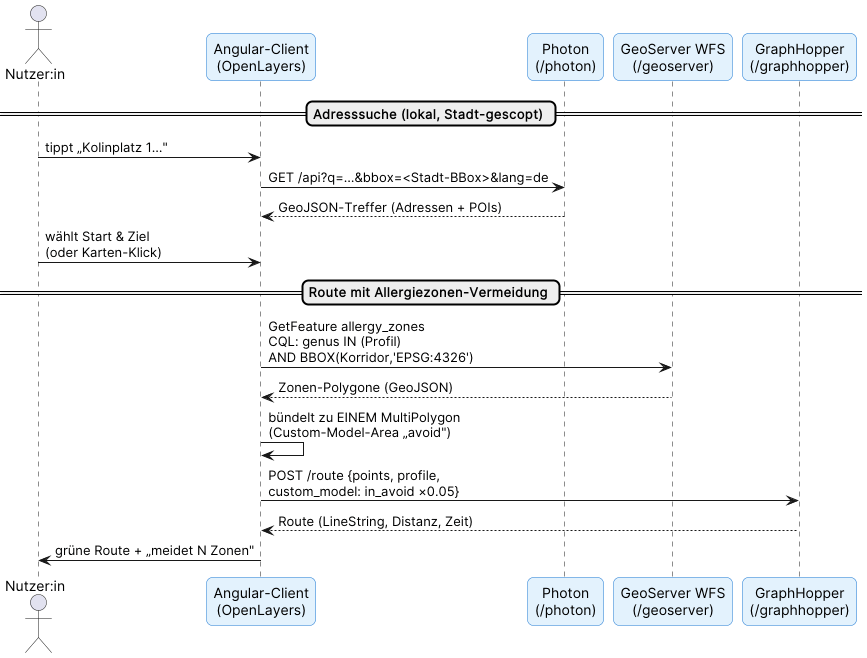
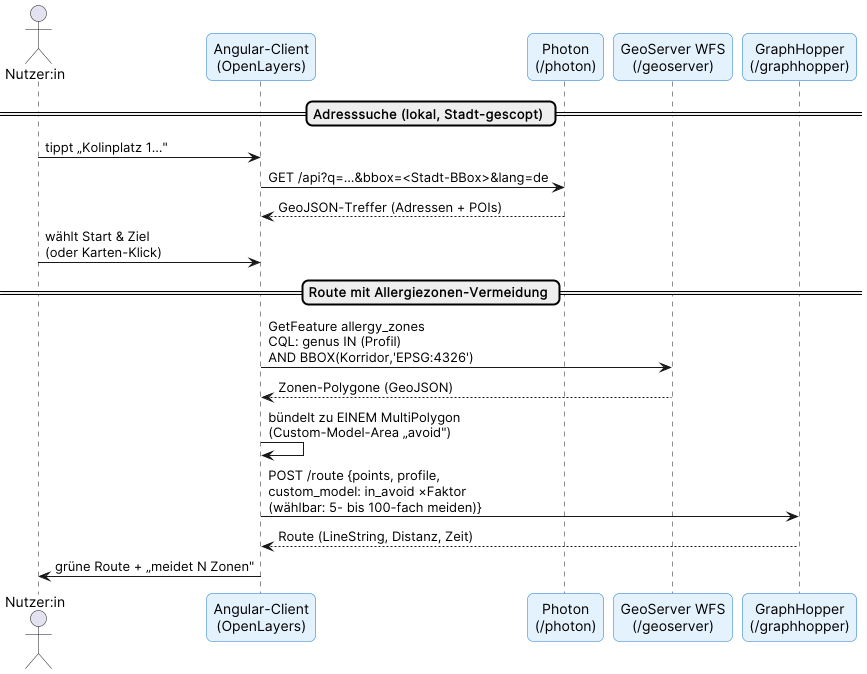
Improved strategies for navigating allergy zones during route planning. + Documentation update

diff --git a/webgis/client/src/app/routing.service.ts b/webgis/client/src/app/routing.service.ts
@@ -38,14 +38,20 @@ export class RoutingService {
   private static readonly CORRIDOR_BUFFER_DEG = 0.012;
   /** Obergrenze der Zonen je Anfrage (deckelt dichte Innenstädte). */
   private static readonly MAX_ZONES = 300;
-  /** Prioritätsfaktor für Kanten in einer Zone (klein = stark meiden; nicht 0, damit stets eine Route existiert). */
-  private static readonly ZONE_PENALTY = '0.05';
 
+  /**
+   * @param avoidFactor Prioritätsfaktor für Kanten in Allergiezonen: jeder Meter
+   *        in einer Zone „kostet" das (1/avoidFactor)-fache eines normalen Meters.
+   *        0,05 = Umwege bis zum ~20-Fachen des Zonenabschnitts werden bevorzugt.
+   *        Bewusst nie 0 (hart gesperrt) — so existiert immer eine Route, auch
+   *        wenn der Start mitten in einer Zone liegt.
+   */
   async route(
     profile: RouteProfile,
     start: LonLat,
     end: LonLat,
     avoidGenera: ReadonlySet<string>,
+    avoidFactor: number,
   ): Promise<RouteResult> {
     const zones = avoidGenera.size ? await this.corridorZones(start, end, avoidGenera) : [];
     const body: Record<string, unknown> = {
@@ -57,7 +63,7 @@ export class RoutingService {
       points_encoded: false,
       'ch.disable': true,
     };
-    if (zones.length) body['custom_model'] = this.avoidModel(zones);
+    if (zones.length) body['custom_model'] = this.avoidModel(zones, avoidFactor);
 
     const resp = await firstValueFrom(this.http.post<GhResponse>(RoutingService.GH_URL, body));
     const path = resp.paths?.[0];
@@ -109,14 +115,14 @@ export class RoutingService {
    * eine Bedingung `in_avoid`) statt N Einzel-Areas — deutlich schlankerer Request.
    * Die Zonen sind Polygone (PostGIS-Schema); ein evtl. MultiPolygon wird flach übernommen.
    */
-  private avoidModel(zoneGeoms: GeoJsonGeometry[]): object {
+  private avoidModel(zoneGeoms: GeoJsonGeometry[], avoidFactor: number): object {
     const polygons: unknown[] = [];
     for (const g of zoneGeoms) {
       if (g.type === 'Polygon') polygons.push(g.coordinates);
       else if (g.type === 'MultiPolygon') polygons.push(...(g.coordinates as unknown[]));
     }
     return {
-      priority: [{ if: 'in_avoid', multiply_by: RoutingService.ZONE_PENALTY }],
+      priority: [{ if: 'in_avoid', multiply_by: String(avoidFactor) }],
       areas: {
         type: 'FeatureCollection',
         features: [

diff --git a/webgis/client/src/app/app.ts b/webgis/client/src/app/app.ts
@@ -57,6 +57,8 @@ export class App implements AfterViewInit {
   // Routing (Phase 4) — Start/Ziel per Karten-Klick, Vermeidung nutzt selectedGenera.
   readonly routingActive = signal(false);
   readonly routeProfile = signal<RouteProfile>('foot');
+  /** Zonen-Meidefaktor: 0,05 = „lieber bis zu 20-facher Umweg als eine Zone queren". */
+  readonly routeAvoidFactor = signal(0.05);
   readonly routeStart = signal<LonLat | null>(null);
   readonly routeEnd = signal<LonLat | null>(null);
   readonly routeInfo = signal<RouteResult | null>(null);
@@ -296,6 +298,14 @@ export class App implements AfterViewInit {
     if (this.routeStart() && this.routeEnd()) void this.computeRoute();
   }
 
+  /** Meidefaktor aus dem Dropdown übernehmen und ggf. sofort neu rechnen. */
+  setAvoidFactor(value: string): void {
+    const factor = Number(value);
+    if (!factor || factor === this.routeAvoidFactor()) return;
+    this.routeAvoidFactor.set(factor);
+    if (this.routeStart() && this.routeEnd()) void this.computeRoute();
+  }
+
   clearRoutingUi(): void {
     this.resetRouting();
     this.mapService.clearRouting();
@@ -331,6 +341,7 @@ export class App implements AfterViewInit {
         start,
         end,
         this.selectedGenera(),
+        this.routeAvoidFactor(),
       );
       this.routeInfo.set(result);
       this.mapService.drawRoute(result.coords);

diff --git a/webgis/client/src/app/app.html b/webgis/client/src/app/app.html
@@ -54,6 +54,18 @@
       {{ routingActive() ? 'Routing beenden' : 'Route planen' }}
     </button>
     @if (routingActive()) {
+      <details class="adv">
+        <summary>Erweiterte Optionen</summary>
+        <label class="adv-label" for="avoid-factor">Ich durchquere eine Allergiezone lieber,
+          als den folgenden Umweg zur&uuml;cklegen zu m&uuml;ssen:</label>
+        <select id="avoid-factor" (change)="setAvoidFactor($any($event.target).value)">
+          <option value="0.2"  [selected]="routeAvoidFactor() === 0.2">5-fach</option>
+          <option value="0.1"  [selected]="routeAvoidFactor() === 0.1">10-fach</option>
+          <option value="0.05" [selected]="routeAvoidFactor() === 0.05">20-fach (Standard)</option>
+          <option value="0.02" [selected]="routeAvoidFactor() === 0.02">50-fach</option>
+          <option value="0.01" [selected]="routeAvoidFactor() === 0.01">100-fach</option>
+        </select>
+      </details>
       <div class="geosearch">
         <input type="search" placeholder="Start: Adresse oder Ort &hellip;" autocomplete="off"
                [value]="startQuery()" (input)="onStartQuery($any($event.target).value)">

diff --git a/webgis/client/src/app/app.scss b/webgis/client/src/app/app.scss
@@ -369,6 +369,32 @@
   color: var(--br-on-glass-muted);
 }
 
+/* Erweiterte Routen-Optionen (Zonen-Meidefaktor). */
+.adv {
+  summary {
+    font-size: 12px;
+    color: var(--br-on-glass-muted);
+    cursor: pointer;
+    user-select: none;
+
+    &:hover {
+      color: var(--br-on-glass);
+    }
+  }
+
+  .adv-label {
+    display: block;
+    margin: 8px 0 6px;
+    font-size: 12px;
+    color: var(--br-on-glass-muted);
+    line-height: 1.4;
+  }
+
+  select {
+    width: 100%;
+  }
+}
+
 /* Adress-/Ortssuche für Start & Ziel (Photon). */
 .geosearch {
   display: flex;

diff --git a/README.md b/README.md
@@ -110,7 +110,7 @@ Die Daten werden vom Backend verarbeitet und kryptografisch mit **Ed25519** sign
 Beim Start prüft die App auf Neuerungen: Gibt es im GitHub-Release eine neuere App-Version, lädt und installiert sie sich auf Wunsch selbst (mit Hinweis auf die nötige Installationsberechtigung und direktem Sprung in die passende Einstellung). Ebenso werden aktualisierte oder korrigierte **Baumdaten** erkannt – jede Stadt trägt eine inhaltsbasierte Daten-Version, und bereits geladenen Städten wird ein Refresh angeboten, sobald sich ihre Daten ändern.
 
 ### 🖥 WebGIS-Tech-Demo (Docker)
-Neben der App gibt es ein **komplettes Web-GIS zum Selbst-Hosten** ([`webgis/`](webgis/README.md)): PostGIS und GeoServer publizieren dieselben signierten Datenbestände als **OGC-Dienste** (WMS 1.3.0, WFS 2.0, OGC API Features), ein Angular/OpenLayers-Client bringt Karte, Gattungsfilter und Stadt-Scoping — dazu **lokales Routing** (GraphHopper-Insel-Graph, Allergiezonen-Vermeidung per Custom Model) und **lokale Adress-/POI-Suche** (Photon). Die Besonderheit: Auch Routing-OSM und Geocoder-Index werden aus **pro Stadt geschnittenen, signierten Häppchen** gespeist — wer nur Zug ausprobiert, lädt für die Adresssuche 25 MB statt der 11 GB fertiger Länder-Indizes. Ein Befehl genügt (nur Docker nötig):
+Neben der App gibt es ein **komplettes Web-GIS zum Selbst-Hosten** ([`webgis/`](webgis/README.md)): PostGIS und GeoServer publizieren dieselben signierten Datenbestände als **OGC-Dienste** (WMS 1.3.0, WFS 2.0, OGC API Features), ein Angular/OpenLayers-Client bringt Karte, Gattungsfilter und Stadt-Scoping — dazu **lokales Routing** (GraphHopper-Insel-Graph, Allergiezonen-Vermeidung per Custom Model — mit wählbarer Meidungs-Stärke von „5-fach" bis „praktisch strikt") und **lokale Adress-/POI-Suche** (Photon). Die Besonderheit: Auch Routing-OSM und Geocoder-Index werden aus **pro Stadt geschnittenen, signierten Häppchen** gespeist — wer nur Zug ausprobiert, lädt für die Adresssuche 25 MB statt der 11 GB fertiger Länder-Indizes. Ein Befehl genügt (nur Docker nötig):
 
 ```powershell
 cd webgis

diff --git a/README_en.md b/README_en.md
@@ -102,7 +102,7 @@ The data is processed by the backend and cryptographically signed using **Ed2551
 On startup the app checks for updates: if a newer app version exists in the GitHub releases, it can download and install itself on request (explaining the required install permission and jumping straight to the relevant setting). It likewise detects updated or corrected **tree data** – each city carries a content-based data version, and already-downloaded cities are offered a refresh whenever their data changes.
 
 ### 🖥 WebGIS Tech Demo (Docker)
-Alongside the app there is a **complete self-hostable web GIS** ([`webgis/`](webgis/README.md)): PostGIS and GeoServer publish the same signed datasets as **OGC services** (WMS 1.3.0, WFS 2.0, OGC API Features), an Angular/OpenLayers client provides the map, genus filters and city scoping — plus **local routing** (GraphHopper island graph, allergy-zone avoidance via custom models) and **local address/POI search** (Photon). The special twist: routing OSM data and the geocoder index are also fed from **per-city, signed slices** — someone trying just Zug downloads 25 MB for the address search instead of the 11 GB of pre-built country indexes. One command is all it takes (only Docker required):
+Alongside the app there is a **complete self-hostable web GIS** ([`webgis/`](webgis/README.md)): PostGIS and GeoServer publish the same signed datasets as **OGC services** (WMS 1.3.0, WFS 2.0, OGC API Features), an Angular/OpenLayers client provides the map, genus filters and city scoping — plus **local routing** (GraphHopper island graph, allergy-zone avoidance via custom models — with selectable avoidance strength from "5-fold" to "effectively strict") and **local address/POI search** (Photon). The special twist: routing OSM data and the geocoder index are also fed from **per-city, signed slices** — someone trying just Zug downloads 25 MB for the address search instead of the 11 GB of pre-built country indexes. One command is all it takes (only Docker required):
 
 ```powershell
 cd webgis

diff --git a/docs/glossary.md b/docs/glossary.md
@@ -44,7 +44,7 @@ Projekt. *(English version: [glossary_en.md](glossary_en.md))*
 
 **GraphHopper** — Open-Source-Routing-Engine auf OSM-Basis (Java). Im WebGIS läuft sie im *flexiblen Modus* mit den Profilen `foot` und `bike` und akzeptiert pro Anfrage ein Custom Model — die Grundlage der Allergiezonen-Vermeidung.
 
-**Custom Model (GraphHopper)** — Ein JSON-Regelwerk, das pro Routing-Anfrage mitgeschickt wird: Es kann Kanten-Prioritäten und -Geschwindigkeiten anpassen und **Areas** (Polygone) referenzieren. BaumRadar bündelt die Allergiezonen im Routen-Korridor zu einem MultiPolygon und wertet Kanten darin mit Faktor 0,05 ab — *weiche* Vermeidung: eine Route, die in einer Zone startet, funktioniert trotzdem.
+**Custom Model (GraphHopper)** — Ein JSON-Regelwerk, das pro Routing-Anfrage mitgeschickt wird: Es kann Kanten-Prioritäten und -Geschwindigkeiten anpassen und **Areas** (Polygone) referenzieren. BaumRadar bündelt die Allergiezonen im Routen-Korridor zu einem MultiPolygon und wertet Kanten darin ab — der Faktor ist im Client wählbar („lieber queren als 5/10/20/50/100-facher Umweg", Standard 20-fach ≙ 0,05). *Weiche* Vermeidung: eine Route, die in einer Zone startet, funktioniert immer.
 
 **Contraction Hierarchies (CH)** — Eine Vorverdichtung des Straßengraphen für extrem schnelle Anfragen. Der Haken: Die Kantengewichte werden beim Vorrechnen eingefroren — pro Anfrage veränderliche Custom Models sind damit unmöglich. Deshalb ist CH im Projekt bewusst deaktiviert (der kleine Insel-Graph ist auch ohne schnell genug).
 

diff --git a/docs/glossary_en.md b/docs/glossary_en.md
@@ -44,7 +44,7 @@ this project. *(Deutsche Fassung: [glossary.md](glossary.md))*
 
 **GraphHopper** — Open-source routing engine based on OSM (Java). In the WebGIS it runs in *flexible mode* with the `foot` and `bike` profiles and accepts a custom model per request — the foundation of the allergy-zone avoidance.
 
-**Custom model (GraphHopper)** — A JSON rule set sent along with a routing request: it can adjust edge priorities and speeds and reference **areas** (polygons). BaumRadar bundles the allergy zones in the route corridor into one MultiPolygon and down-weights edges inside it by factor 0.05 — *soft* avoidance: a route that starts inside a zone still works.
+**Custom model (GraphHopper)** — A JSON rule set sent along with a routing request: it can adjust edge priorities and speeds and reference **areas** (polygons). BaumRadar bundles the allergy zones in the route corridor into one MultiPolygon and down-weights edges inside it — the factor is user-selectable in the client ("rather cross than a 5/10/20/50/100-fold detour", default 20× ≙ 0.05). *Soft* avoidance: a route that starts inside a zone always works.
 
 **Contraction Hierarchies (CH)** — A precomputation of the road graph for extremely fast queries. The catch: edge weights are frozen at preprocessing time — per-request custom models become impossible. That is why CH is deliberately disabled here (the small island graph is fast enough without it).
 

diff --git a/docs/webgis_architecture.md b/docs/webgis_architecture.md
@@ -97,7 +97,7 @@ genus_de IN ('Birke','Hasel') AND city_id = 'wien'
 
 1. WFS-Query: Zonen der im Profil gewählten Gattungen, begrenzt auf die **Start–Ziel-BBox + Puffer** (CQL `BBOX`), gedeckelt auf 300.
 2. Die Treffer werden client-seitig zu **einem MultiPolygon** gebündelt (eine Custom-Model-Area statt N einzelner — schlanker Request, eine Bedingung).
-3. GraphHopper bekommt `priority: [{ if: "in_avoid", multiply_by: 0.05 }]` — Kanten in Zonen werden stark abgewertet, aber nicht verboten (**weiche Vermeidung**: eine Route, die *in* einer Zone startet, funktioniert trotzdem).
+3. GraphHopper bekommt `priority: [{ if: "in_avoid", multiply_by: <Faktor> }]` — Kanten in Zonen werden abgewertet, aber nie verboten (**weiche Vermeidung**: eine Route, die *in* einer Zone startet, funktioniert immer). Die Stärke wählt man im Client unter „Erweiterte Optionen": *„lieber queren als N-facher Umweg"* mit N = 5/10/**20 (Standard)**/50/100 (≙ `multiply_by` 0,2 … 0,01) — bei 100-fach ist die Meidung praktisch strikt, ohne die Fallstricke einer harten Sperre.
 
 Messbeispiel (Zug, foot): Basis 1.438 m → mit 49 Ahorn-Zonen im Korridor 1.884 m (+446 m Umweg um die Zonen).
 

diff --git a/docs/webgis_architecture_en.md b/docs/webgis_architecture_en.md
@@ -97,7 +97,7 @@ genus_de IN ('Birke','Hasel') AND city_id = 'wien'
 
 1. WFS query: zones of the genera selected in the profile, restricted to the **start–destination bbox + buffer** (CQL `BBOX`), capped at 300.
 2. The hits are bundled client-side into **one MultiPolygon** (one custom-model area instead of N — a lean request, one condition).
-3. GraphHopper receives `priority: [{ if: "in_avoid", multiply_by: 0.05 }]` — edges inside zones are heavily penalised but not forbidden (**soft avoidance**: a route that *starts* inside a zone still works).
+3. GraphHopper receives `priority: [{ if: "in_avoid", multiply_by: <factor> }]` — edges inside zones are penalised but never forbidden (**soft avoidance**: a route that *starts* inside a zone always works). The strength is chosen in the client under "advanced options": *"rather cross a zone than take an N-fold detour"* with N = 5/10/**20 (default)**/50/100 (≙ `multiply_by` 0.2 … 0.01) — at 100× the avoidance is effectively strict, without the pitfalls of a hard block.
 
 Measured example (Zug, foot): baseline 1,438 m → with 49 maple zones in the corridor 1,884 m (+446 m detour around the zones).
 

diff --git a/webgis/README.md b/webgis/README.md
@@ -108,7 +108,8 @@ http://localhost:8081/geoserver/baumradar/wfs?service=WFS&version=2.0.0&request=
   per osmium zu einem PBF zusammengeführt. Routing funktioniert innerhalb jeder
   Stadt; zwischen Städten gibt es bewusst keine Verbindung. Allergiezonen werden
   pro Request als Custom-Model-Areas gemieden (weich — Start *in* einer Zone
-  funktioniert trotzdem).
+  funktioniert immer); die Meidungs-Stärke ist im Client wählbar
+  („lieber queren als 5/10/20/50/100-facher Umweg", Standard 20-fach).
 
 ## Konfiguration (`.env`)
 
